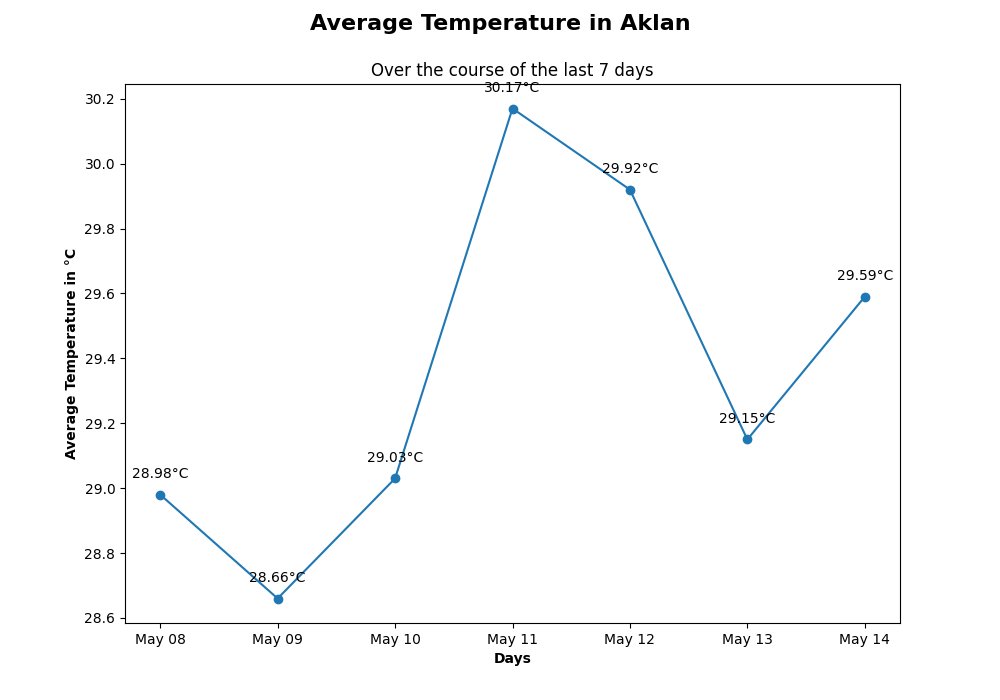
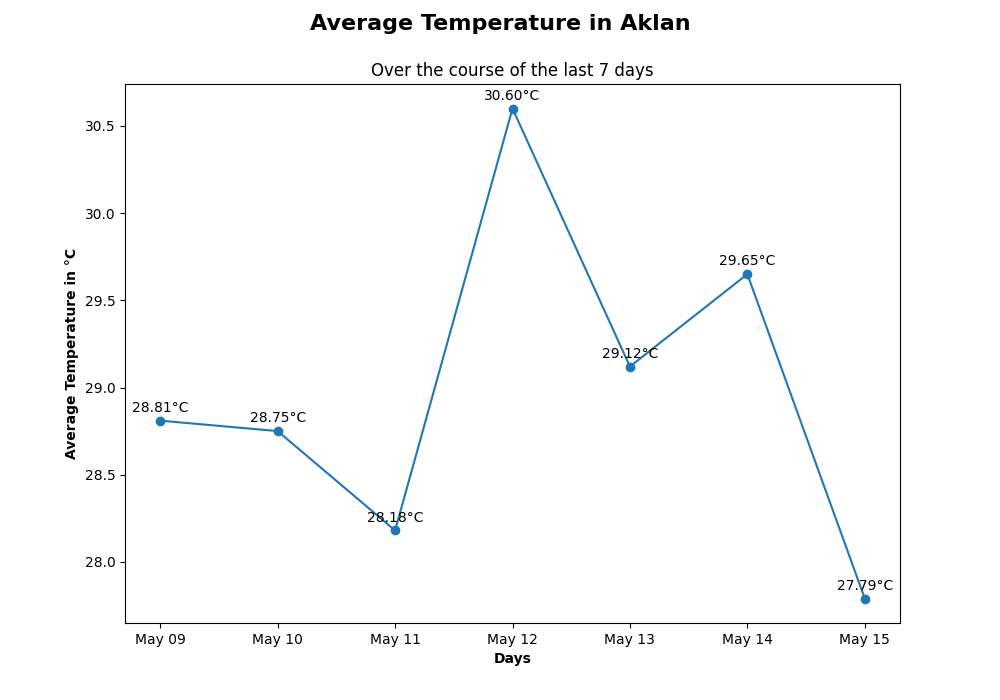
Finished the visualization stage

diff --git a/scripts/visualize.py b/scripts/visualize.py
@@ -5,7 +5,7 @@ import pandas as pd
 csv_path_daily_summary = 'csv_files/daily_summary.csv'
 csv_path_hourly_summary = 'csv_files/hourly_summary.csv'
 
-# DAILY TREND  
+# DAILY TREND  ----------------------------------------------------------------------------------
 
 # Reading THe CSV file for Daily Summary 
 dly_df = pd.read_csv(csv_path_daily_summary)
@@ -33,12 +33,40 @@ plt.ylabel('Average Temperature in °C', fontweight='bold')
 for i, v in enumerate(dly_y):
     plt.text(dly_x[i], v + 0.05, f"{v:.2f}°C", ha='center')
 
-# plt.savefig('charts/daily_trend.png')
+plt.savefig('charts/daily_trend.png')
 
-# plt.close()
+plt.close()
+
+# MIN AND MAXIMUM TEMPERATURE PER DAY ---------------------------------------------------------------------------------
+# Data for X axis
+dly_day_x = dly_x
+
+# Data 1 for y axis
+dly_max_1 = dly_df['max_temp']
+
+# Data 2 for y axis
+dly_min_1 = dly_df['min_temp']
+
+# Bigger figure
+plt.figure(figsize=(10, 7))
+
+plt.plot(dly_day_x, dly_max_1, label='Maximum Temperature', marker='o')
+plt.plot(dly_day_x, dly_min_1, label='Minimum Temperature',  marker='o')
+
+plt.xlabel('Days', fontsize=14, fontweight='bold')
+plt.ylabel('Temperature in °C', fontsize=14, fontweight='bold')
+plt.suptitle('Minimum and maximum Temperature', fontsize=16, fontweight='bold')
+plt.title('Temeperature range per day in the last & Days in Aklan')
+plt.legend() # Displays labels defined in plt.plot()
+
+plt.savefig('charts/min_max_trend.png')
+
+plt.show()
 
 
-#  NEXT TREND
+
+
+#  NEXT TREND HOURLY AVERAGE TEMPERATURE ---------------------------------------------------------------------------------
 
 # Reading the the hourly summary csv 
 hly_df = pd.read_csv(csv_path_hourly_summary)
@@ -64,8 +92,17 @@ plt.ylabel('Temperature in °C', fontweight='bold')
 
 plt.savefig('charts/hourly_trend.png')
 
-plt.close()
+# plt.close()
 
-plt.show()
-print(hly_df.info())
+
+
+
+
+
+
+
+
+# print(hly_df.info())
 # print(dly_df.info())
+
+

diff --git a/scripts/transform.py b/scripts/transform.py
@@ -12,7 +12,10 @@ df["timestamp"] = pd.to_datetime(df["timestamp"])
 df["extracted_at"] = pd.to_datetime(df["extracted_at"])
 
 # Remove duplicates
-df = df.drop_duplicates()
+df = df.drop_duplicates(
+  subset=['timestamp'], 
+  keep='last'
+)
 
 
 print(df.head())

diff --git a/scripts/analyze.py b/scripts/analyze.py
@@ -72,7 +72,6 @@ month = pd.Timestamp.now(tz='Asia/Manila').month
 
 monthly_df = df[df['timestamp'].dt.month == month ]
 
-print(monthly_df)
 group_by_hour = monthly_df.groupby('hour').agg(
   avg_temp=('temperature_c', 'mean'),
   min_temp=('temperature_c', 'min'),